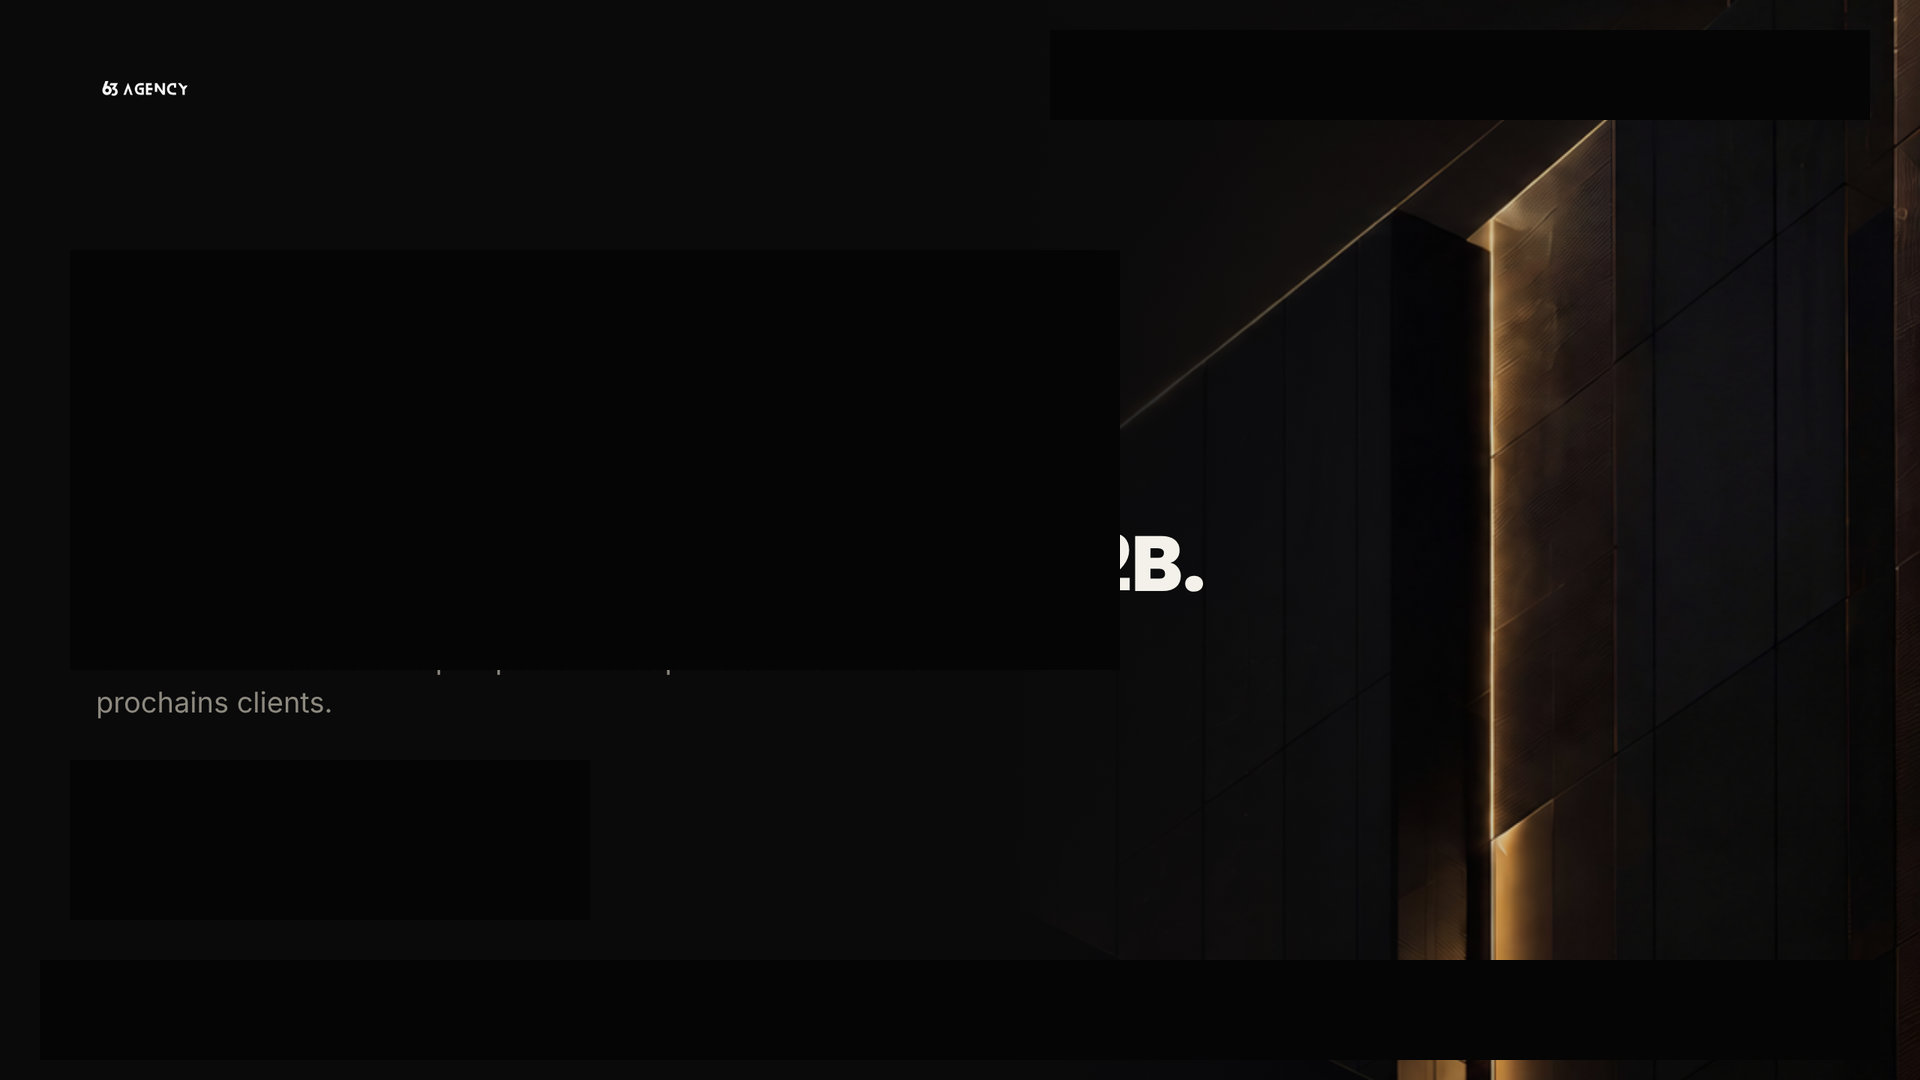
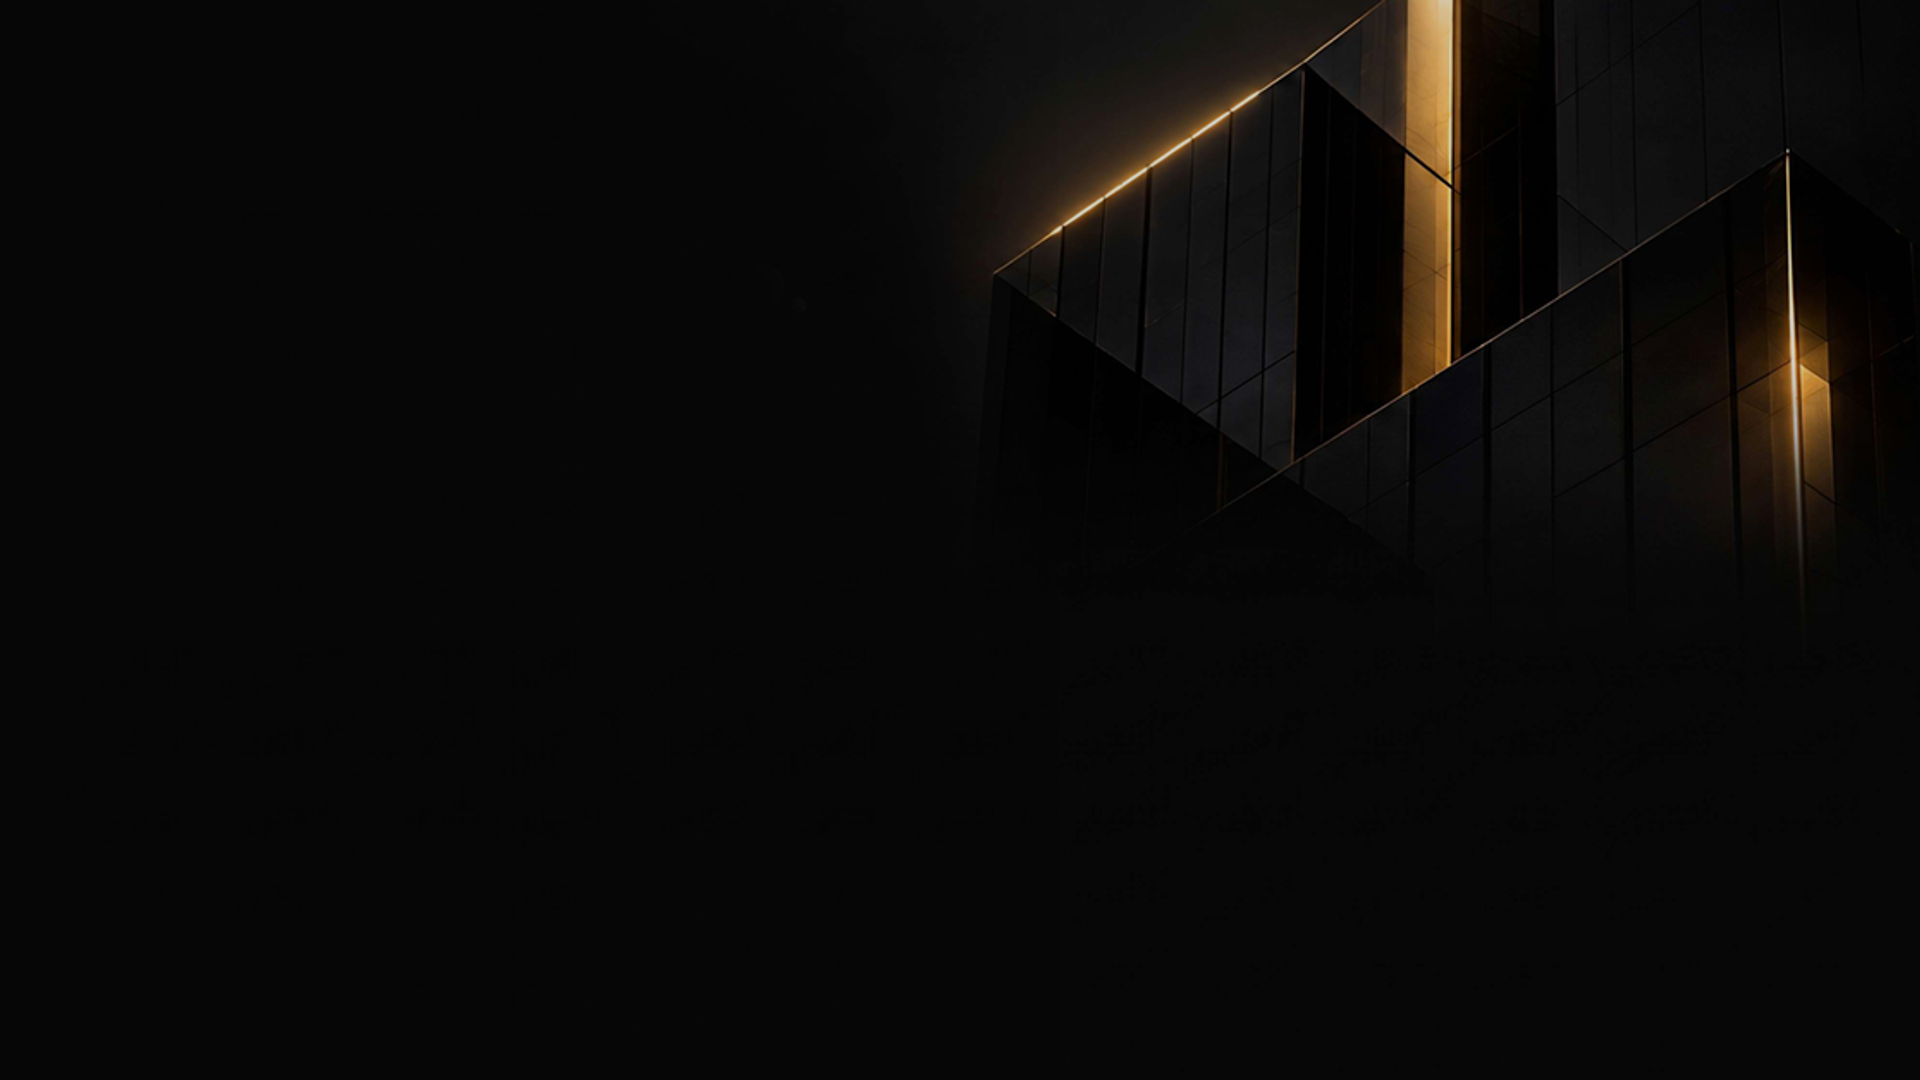
Update .gitignore to exclude debug files, replace proposal PDF background images, and refactor image loading to use Buffer for improved compatibility across platforms.

diff --git a/src/proposals/proposal.pdf.ts b/src/proposals/proposal.pdf.ts
@@ -1,13 +1,21 @@
 import React from 'react';
 import { join } from 'path';
+import { readFileSync } from 'fs';
 import {
   Document, Page, View, Text, Image, StyleSheet, Font, renderToBuffer,
 } from '@react-pdf/renderer';
 
+/** Load local image as Buffer — bare path strings fail via fetch() on Windows. */
+function asset(parts: string[]): Buffer {
+  return readFileSync(join(process.cwd(), ...parts));
+}
+
 /* ---- Fonts (Poppins + Inter + Plus Jakarta Sans from @fontsource) ---- */
 let fontsRegistered = false;
+/** data: URI — Node fetch() does not support file:// */
 function ff(pkg: string, file: string): string {
-  return join(process.cwd(), 'node_modules', '@fontsource', pkg, 'files', file);
+  const buf = asset(['node_modules', '@fontsource', pkg, 'files', file]);
+  return `data:font/woff;base64,${buf.toString('base64')}`;
 }
 function registerFonts(): void {
   if (fontsRegistered) return;
@@ -35,10 +43,10 @@ function registerFonts(): void {
 }
 
 /* ---- Background pages (design figé, variables laissées vides) ---- */
-const BG1 = join(process.cwd(), 'public', 'images', 'proposal-cover-bg.png');
-const BG2 = join(process.cwd(), 'public', 'images', 'proposal-mechanism-bg.png');
-const BG3 = join(process.cwd(), 'public', 'images', 'image.png');
-const PROMISE_BG = join(process.cwd(), 'public', 'images', 'image12.png');
+const BG1 = () => asset(['public', 'images', 'proposal-cover-bg.png']);
+const BG2 = () => asset(['public', 'images', 'proposal-mechanism-bg.png']);
+const BG3 = () => asset(['public', 'images', 'image.png']);
+const PROMISE_BG = () => asset(['public', 'images', 'image12.png']);
 
 export type ProposalPdfLanguage = 'fr' | 'en';
 
@@ -203,20 +211,12 @@ function localizeField(
   return v;
 }
 
-const LOGO = join(process.cwd(), 'public', 'images', '63AgencyTextwhit.png');
+const LOGO = () => asset(['public', 'images', '63AgencyTextwhit.png']);
 
 const PAGE = { width: 1280, height: 720 } as const;
 const styles = StyleSheet.create({
   page: { position: 'relative', width: 1280, height: 720 },
   bg: { position: 'absolute', top: 0, left: 0, width: 1280, height: 720 },
-  logoCover: {
-    position: 'absolute',
-    left: 40,
-    top: 24,
-    width: 168,
-    height: 42,
-    backgroundColor: '#0B0B0B',
-  },
   logo: {
     position: 'absolute',
     left: 48,
@@ -255,12 +255,13 @@ const styles = StyleSheet.create({
     letterSpacing: 3.3,
     lineHeight: 1,
   },
-  /** Page 1 footer: DATE ————— PROPOSITION CONFIDENTIELLE —— */
+  /** Page 1 footer: DATE ———— PROPOSITION CONFIDENTIELLE —— */
   p1FootRow: {
     position: 'absolute',
     left: 64,
     top: 652,
     width: 1152,
+    height: 14,
     flexDirection: 'row',
     alignItems: 'center',
   },
@@ -270,12 +271,16 @@ const styles = StyleSheet.create({
     fontSize: 11,
     color: '#C9C4B8',
     letterSpacing: 3.2,
-    marginRight: 18,
+    lineHeight: 1,
+    marginRight: 14,
   },
   p1FootLine: {
-    flex: 1,
+    flexGrow: 1,
+    flexShrink: 1,
+    flexBasis: 0,
     height: 1.5,
-    backgroundColor: '#C9A36A',
+    backgroundColor: '#DEA65C',
+    marginTop: 1,
   },
   p1FootConfidential: {
     fontFamily: 'Poppins',
@@ -283,13 +288,15 @@ const styles = StyleSheet.create({
     fontSize: 11,
     color: '#C9C4B8',
     letterSpacing: 2.8,
-    marginLeft: 18,
-    marginRight: 18,
+    lineHeight: 1,
+    marginLeft: 14,
+    marginRight: 14,
   },
   p1FootLineEnd: {
-    width: 72,
+    width: 56,
     height: 1.5,
-    backgroundColor: '#C9A36A',
+    backgroundColor: '#DEA65C',
+    marginTop: 1,
   },
 
   /* ---- Page 1 cover (localized text) ---- */
@@ -406,7 +413,7 @@ const styles = StyleSheet.create({
     borderWidth: 1,
     borderColor: '#C9A36A',
     borderRadius: 4,
-    backgroundColor: 'rgba(8,8,8,0.82)',
+    backgroundColor: 'rgba(22,20,18,0.55)',
     paddingVertical: 22,
     paddingHorizontal: 24,
   },
@@ -419,7 +426,7 @@ const styles = StyleSheet.create({
     borderWidth: 1,
     borderColor: '#C9A36A',
     borderRadius: 4,
-    backgroundColor: 'rgba(8,8,8,0.82)',
+    backgroundColor: 'rgba(22,20,18,0.55)',
     paddingVertical: 22,
     paddingHorizontal: 24,
   },
@@ -452,7 +459,7 @@ const styles = StyleSheet.create({
     borderLeftColor: '#DEA65C',
     paddingLeft: 12,
     paddingVertical: 8,
-    backgroundColor: 'rgba(20,18,24,0.9)',
+    backgroundColor: 'rgba(28,24,20,0.45)',
   },
   p2OutcomeText: {
     fontFamily: 'Inter',
@@ -473,7 +480,7 @@ const styles = StyleSheet.create({
     paddingVertical: 10,
     paddingHorizontal: 12,
     marginBottom: 8,
-    backgroundColor: 'rgba(12,12,14,0.9)',
+    backgroundColor: 'rgba(28,24,20,0.4)',
   },
   p2LoopTitle: {
     fontFamily: 'Poppins',
@@ -577,7 +584,7 @@ const styles = StyleSheet.create({
     borderWidth: 1,
     borderColor: '#C9A36A',
     borderRadius: 4,
-    backgroundColor: 'rgba(8,8,8,0.78)',
+    backgroundColor: 'rgba(22,20,18,0.5)',
     flexDirection: 'row',
     paddingVertical: 26,
     paddingHorizontal: 34,
@@ -654,7 +661,9 @@ const styles = StyleSheet.create({
     width: 1136,
     height: 54,
     borderRadius: 4,
-    backgroundColor: '#16131B',
+    borderWidth: 1,
+    borderColor: 'rgba(201,163,106,0.35)',
+    backgroundColor: 'rgba(22,20,18,0.55)',
     flexDirection: 'row',
     alignItems: 'center',
     paddingHorizontal: 30,
@@ -707,7 +716,7 @@ const styles = StyleSheet.create({
     left: 0,
     width: 1136,
     height: 138,
-    backgroundColor: 'rgba(6,6,6,0.28)',
+    backgroundColor: 'rgba(10,8,6,0.18)',
   },
   p3PromiseLabelRow: {
     flexDirection: 'row',
@@ -785,9 +794,8 @@ export async function renderProposalPdf(input: ProposalPdfInput): Promise<Buffer
     React.createElement(
       Page,
       { size: PAGE, style: styles.page },
-      React.createElement(Image, { src: BG1, style: styles.bg }),
-      React.createElement(View, { style: styles.logoCover }),
-      React.createElement(Image, { src: LOGO, style: styles.logo }),
+      React.createElement(Image, { src: BG1(), style: styles.bg }),
+      React.createElement(Image, { src: LOGO(), style: styles.logo }),
       React.createElement(
         View,
         { style: styles.p1EyebrowWrap },
@@ -833,9 +841,8 @@ export async function renderProposalPdf(input: ProposalPdfInput): Promise<Buffer
     React.createElement(
       Page,
       { size: PAGE, style: styles.page },
-      React.createElement(Image, { src: BG2, style: styles.bg }),
-      React.createElement(View, { style: styles.logoCover }),
-      React.createElement(Image, { src: LOGO, style: styles.logo }),
+      React.createElement(Image, { src: BG2(), style: styles.bg }),
+      React.createElement(Image, { src: LOGO(), style: styles.logo }),
       React.createElement(
         View,
         { style: styles.p2EyebrowWrap },
@@ -905,9 +912,8 @@ export async function renderProposalPdf(input: ProposalPdfInput): Promise<Buffer
     React.createElement(
       Page,
       { size: PAGE, style: styles.page },
-      React.createElement(Image, { src: BG3, style: styles.bg }),
-      React.createElement(View, { style: styles.logoCover }),
-      React.createElement(Image, { src: LOGO, style: styles.logo }),
+      React.createElement(Image, { src: BG3(), style: styles.bg }),
+      React.createElement(Image, { src: LOGO(), style: styles.logo }),
 
       React.createElement(
         View,
@@ -966,7 +972,7 @@ export async function renderProposalPdf(input: ProposalPdfInput): Promise<Buffer
       React.createElement(
         View,
         { style: styles.p3PromiseCard },
-        React.createElement(Image, { src: PROMISE_BG, style: styles.p3PromiseBg }),
+        React.createElement(Image, { src: PROMISE_BG(), style: styles.p3PromiseBg }),
         React.createElement(View, { style: styles.p3PromiseScrim }),
         React.createElement(
           View,
